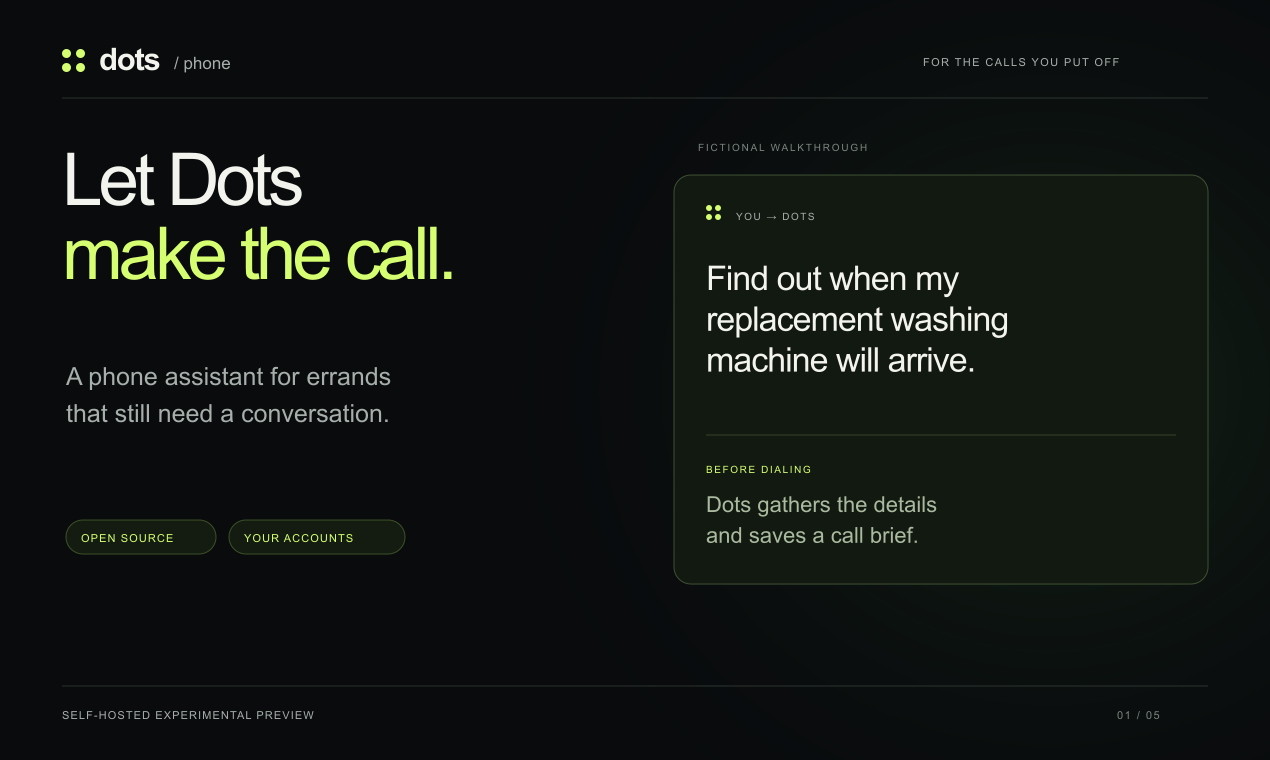
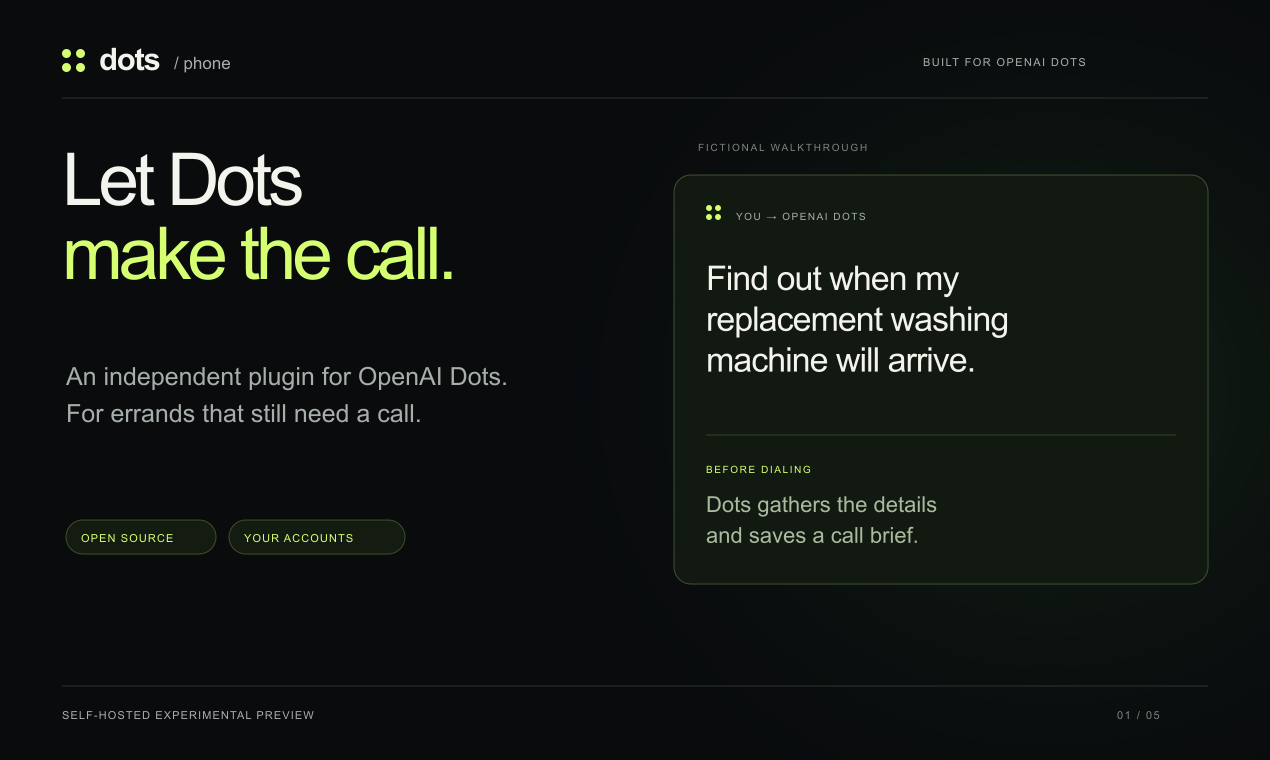
Clarify Dots Phone is a plugin for OpenAI Dots (#6)

Changed region(s): [[0.0614, 0.4842, 0.3992, 0.575], [0.737, 0.0605, 0.8598, 0.0908], [0.6142, 0.2724, 0.6756, 0.3026]]

diff --git a/website/dist/index.html b/website/dist/index.html
@@ -4,22 +4,22 @@
   <meta charset="utf-8">
   <meta name="viewport" content="width=device-width,initial-scale=1">
   <meta name="theme-color" content="#090b0d">
-  <meta name="description" content="An open-source phone assistant for the errands that still need a conversation. Prepare a brief, choose allowed tools, and run Dots on your computer. Experimental preview.">
+  <meta name="description" content="An independent phone-calling plugin for OpenAI Dots. Ask your Dot to handle a call, prepare the brief and bring back the answer. Open source and self-hosted.">
   <link rel="canonical" href="https://phone.gabea.nyc/">
   <meta property="og:type" content="website">
   <meta property="og:site_name" content="Dots Phone">
-  <meta property="og:title" content="Dots Phone — Let Dots make the call.">
-  <meta property="og:description" content="A phone assistant for the errands that still need a conversation. Open source. Self-hosted. Experimental preview.">
+  <meta property="og:title" content="Dots Phone — Phone calls for OpenAI Dots">
+  <meta property="og:description" content="An independent plugin for OpenAI Dots. Your Dot prepares the brief, makes the call and reports back. Open source. Self-hosted.">
   <meta property="og:url" content="https://phone.gabea.nyc/">
-  <meta property="og:image" content="https://phone.gabea.nyc/social-card.png">
+  <meta property="og:image" content="https://phone.gabea.nyc/social-card.png?v=20261022-dots">
   <meta property="og:image:width" content="1200">
   <meta property="og:image:height" content="630">
-  <meta property="og:image:alt" content="Dots Phone. Let Dots make the call. Open-source, self-hosted experimental preview.">
+  <meta property="og:image:alt" content="Dots Phone. A phone-calling plugin for OpenAI Dots. Independent, open-source preview.">
   <meta name="twitter:card" content="summary_large_image">
-  <meta name="twitter:title" content="Dots Phone — Let Dots make the call.">
-  <meta name="twitter:description" content="A phone assistant for the errands that still need a conversation. Open-source, self-hosted experimental preview.">
-  <meta name="twitter:image" content="https://phone.gabea.nyc/social-card.png">
-  <title>Dots Phone — Let Dots make the call.</title>
+  <meta name="twitter:title" content="Dots Phone — Phone calls for OpenAI Dots">
+  <meta name="twitter:description" content="An independent plugin for OpenAI Dots. Your Dot prepares the brief, makes the call and reports back. Open source. Self-hosted.">
+  <meta name="twitter:image" content="https://phone.gabea.nyc/social-card.png?v=20261022-dots">
+  <title>Dots Phone — Phone calls for OpenAI Dots</title>
   <link rel="icon" href="./favicon.svg?v=3683abb69473" type="image/svg+xml">
   <link rel="stylesheet" href="./styles.css?v=a4d6e6dd6e51">
   <link rel="stylesheet" href="./film.css?v=5caa3361b445">
@@ -33,8 +33,8 @@
   </header>
   <main id="main">
     <section class="hero wrap" aria-labelledby="hero-heading">
-      <div class="hero-heading-group"><p class="eyebrow"><span class="status-dot" aria-hidden="true"></span> Dots Phone · Open-source preview</p><h1 id="hero-heading">Let Dots <span>make the call.</span></h1></div>
-      <div class="hero-bottom"><p>Give it the call you’ve been putting off. Dots can talk to customer service for you, using the information and apps you choose to share.</p><a class="primary-link" href="https://github.com/gabeosx/dot-phone-plugin/blob/main/docs/QUICKSTART.md" target="_blank" rel="noopener noreferrer">Get started <span aria-hidden="true">↗</span></a></div>
+      <div class="hero-heading-group"><p class="eyebrow"><span class="status-dot" aria-hidden="true"></span> Built for OpenAI Dots</p><h1 id="hero-heading">Let your Dot <span>make the call.</span></h1></div>
+      <div class="hero-bottom"><p>Dots Phone is an independent plugin for OpenAI Dots. Give your Dot a customer-service call; it prepares the brief, makes the call and reports back.</p><a class="primary-link" href="https://github.com/gabeosx/dot-phone-plugin/blob/main/docs/QUICKSTART.md" target="_blank" rel="noopener noreferrer">Get started <span aria-hidden="true">↗</span></a></div>
     </section>
     <section class="demo-section wrap" id="demo" aria-labelledby="demo-heading">
       <div class="demo-header"><h2 id="demo-heading">Finding out where the washing machine is.</h2><span>Product walkthrough <span aria-hidden="true">/</span> 24 seconds</span></div>
@@ -45,7 +45,7 @@
       <div class="section-heading"><div><p class="eyebrow">Under the hood</p><h2 id="architecture-heading">It knows when<br>to ask for help.</h2></div><p>Realtime handles the conversation. When a question needs more information or reasoning, it can bring in Codex without losing the call.</p></div>
       <div class="architecture" role="group" aria-label="Dots prepares a briefing. Realtime voice speaks through Twilio, and can ask Codex to use permitted read tools. Codex reviews the result before Dots reports back.">
         <div class="arch-main">
-          <div class="arch-node"><span class="node-symbol node-dots" aria-hidden="true">⁙</span><span class="node-type">Before dialing</span><h3>Dots</h3><p>Gathers the details and saves the call briefing.</p></div>
+          <div class="arch-node"><span class="node-symbol node-dots" aria-hidden="true">⁙</span><span class="node-type">Before dialing</span><h3>OpenAI Dots</h3><p>Gathers the details and saves the call briefing.</p></div>
           <span class="arch-arrow" aria-hidden="true">→</span>
           <div class="arch-node arch-voice"><span class="node-symbol node-wave" aria-hidden="true">ııIıı</span><span class="node-type">During the call</span><h3>Realtime</h3><p>Answers from the briefing. Ordinary replies skip the extra reasoning step.</p></div>
           <span class="arch-arrow" aria-hidden="true">↔</span>
@@ -60,10 +60,10 @@
       <div class="ownership-details"><article><h3>Set the limits in the brief.</h3><p>Include what Dots may share and agree to. The document is saved before the call starts.</p></article><article><h3>Connect the apps you want.</h3><p>Codex uses the read tools you allow for that call. Email access is optional and requires authentication.</p></article><article><h3>Keep the service on your machine.</h3><p>Call records are encrypted locally. Model requests go to OpenAI; phone audio travels through Twilio.</p></article></div>
     </section>
     <section class="preview-section wrap" id="preview" aria-labelledby="preview-heading">
-      <div class="section-heading"><div><p class="eyebrow">Before you start</p><h2 id="preview-heading">Built for people<br>who like to tinker.</h2></div><p>This is an experimental preview you run on your computer. Bring your own accounts and start with dialing disabled.</p></div>
+      <div class="section-heading"><div><p class="eyebrow">Before you start</p><h2 id="preview-heading">Built for people<br>who like to tinker.</h2></div><p>Use it with OpenAI Dots and your own provider accounts. The phone service runs on your computer; setup starts with dialing disabled.</p></div>
       <div class="preview-grid">
         <article><span class="node-type">01 / Your computer</span><h3>A local service.</h3><p>Docker Compose, uv, Node and Codex CLI run the service and reasoning worker. The setup guide has a prompt for Codex to help.</p></article>
-        <article><span class="node-type">02 / Your accounts</span><h3>Voice + phone connection.</h3><p>You need OpenAI API access, a Twilio number, HTTPS/WSS tunnels, and eligible ChatGPT custom plugin access. Check registration access before buying services.</p></article>
+        <article><span class="node-type">02 / Your accounts</span><h3>Voice + phone connection.</h3><p>You need OpenAI Dots, OpenAI API access, a Twilio number, HTTPS/WSS tunnels, and eligible ChatGPT custom plugin access. Check registration access before buying services.</p></article>
         <article><span class="node-type">03 / Your limits</span><h3>Start small.</h3><p>Set what Dots may share and agree to. Calls can be incomplete, and unfamiliar phone menus or unclear speech can cause mistakes.</p></article>
       </div>
       <p class="preview-evidence"><a href="https://github.com/gabeosx/dot-phone-plugin/blob/main/docs/VALIDATION.md" target="_blank" rel="noopener noreferrer">Read the test coverage and known limits <span aria-hidden="true">↗</span></a></p>
@@ -71,6 +71,7 @@
     <section class="faq-section wrap" id="questions" aria-labelledby="faq-heading">
       <div><p class="eyebrow">A few details</p><h2 id="faq-heading">Before the<br>first call.</h2></div>
       <div class="faq-list">
+        <details><summary>How does it work with OpenAI Dots?</summary><p>Dots Phone adds phone calls to your Dot. Ask in your Dots conversation; your Dot prepares the brief, coordinates the call and brings the result back to the same conversation. The phone service runs locally, with Codex available for reasoning and permitted lookups.</p></details>
         <details><summary>What does it cost?</summary><p>Dots uses your OpenAI and Twilio accounts. OpenAI charges for API voice usage; Twilio charges for the phone number and calls. Your tunnel service may also charge. Codex reasoning uses your ChatGPT plan’s allowance, which is separate from API billing. Call budgets use estimates rather than live billing.</p></details>
         <details><summary>Does it need access to my email?</summary><p>No. You can supply the facts in the brief. Connected read tools are optional, require your own authentication, and must be allowed for the call.</p></details>
         <details><summary>Where does my data go?</summary><p>The service keeps encrypted call records locally. Model requests go to OpenAI and phone audio travels through Twilio. Connected tools and tunnels have their own data handling. Worker exchange files rely on local file permissions. <a href="https://github.com/gabeosx/dot-phone-plugin/blob/main/docs/PRIVACY.md" target="_blank" rel="noopener noreferrer">Read the data and retention details.</a></p></details>
@@ -78,7 +79,7 @@
         <details><summary>How do I get help?</summary><p><a href="https://github.com/gabeosx/dot-phone-plugin/blob/main/docs/SUPPORT.md" target="_blank" rel="noopener noreferrer">Start with troubleshooting</a> or <a href="https://github.com/gabeosx/dot-phone-plugin/issues" target="_blank" rel="noopener noreferrer">report a reproducible issue</a>. Share your version and a redacted error. Keep credentials, phone numbers, transcripts and private account details out of public issues.</p></details>
       </div>
     </section>
-    <section class="get-started wrap" id="get-started" aria-labelledby="get-started-heading"><div class="cta-copy"><p class="eyebrow">Experimental preview</p><h2 id="get-started-heading">Give Dots<br>your next call.</h2><p>The setup guide includes a prompt you can hand to Codex.</p><div class="cta-actions"><a class="primary-link" href="https://github.com/gabeosx/dot-phone-plugin/blob/main/docs/QUICKSTART.md" target="_blank" rel="noopener noreferrer">Set up Dots Phone <span aria-hidden="true">↗</span></a><a class="text-link" href="https://github.com/gabeosx/dot-phone-plugin" target="_blank" rel="noopener noreferrer">View the code <span aria-hidden="true">↗</span></a></div><p class="setup-requirements">Bring your own provider accounts and run the service locally. Setup starts with dialing disabled. <a href="https://github.com/gabeosx/dot-phone-plugin/blob/main/LICENSE" target="_blank" rel="noopener noreferrer">MIT licensed.</a></p></div><div class="cta-mark" aria-hidden="true"><i></i><i></i><i></i><i></i></div></section>
+    <section class="get-started wrap" id="get-started" aria-labelledby="get-started-heading"><div class="cta-copy"><p class="eyebrow">Experimental preview</p><h2 id="get-started-heading">Give your Dot<br>your next call.</h2><p>The setup guide includes a prompt you can hand to Codex.</p><div class="cta-actions"><a class="primary-link" href="https://github.com/gabeosx/dot-phone-plugin/blob/main/docs/QUICKSTART.md" target="_blank" rel="noopener noreferrer">Set up Dots Phone <span aria-hidden="true">↗</span></a><a class="text-link" href="https://github.com/gabeosx/dot-phone-plugin" target="_blank" rel="noopener noreferrer">View the code <span aria-hidden="true">↗</span></a></div><p class="setup-requirements">Bring your own provider accounts and run the service locally. Setup starts with dialing disabled. <a href="https://github.com/gabeosx/dot-phone-plugin/blob/main/LICENSE" target="_blank" rel="noopener noreferrer">MIT licensed.</a></p></div><div class="cta-mark" aria-hidden="true"><i></i><i></i><i></i><i></i></div></section>
   </main>
   <footer class="site-footer wrap"><a class="wordmark" href="#" aria-label="Back to top"><span class="brand-dots" aria-hidden="true"><i></i><i></i><i></i><i></i></span><span>dots<span class="wordmark-product"> / phone</span></span></a><nav aria-label="Project resources"><a href="https://github.com/gabeosx/dot-phone-plugin/blob/main/docs/SUPPORT.md" target="_blank" rel="noopener noreferrer">Support <span aria-hidden="true">↗</span></a><a href="https://github.com/gabeosx/dot-phone-plugin/blob/main/docs/VALIDATION.md" target="_blank" rel="noopener noreferrer">Test coverage <span aria-hidden="true">↗</span></a><a href="https://github.com/gabeosx/dot-phone-plugin/blob/main/docs/PRIVACY.md" target="_blank" rel="noopener noreferrer">Privacy &amp; data <span aria-hidden="true">↗</span></a></nav></footer>
 </body>

diff --git a/docs/launch/PRODUCT-HUNT-COPY.md b/docs/launch/PRODUCT-HUNT-COPY.md
@@ -12,16 +12,16 @@ self-hosted preview described in the [README](../../README.md).
 Dots Phone
 ```
 
-**Tagline** — 55 characters
+**Tagline** — 38 characters
 
 ```text
-A self-hosted assistant for the phone calls you put off
+A phone-calling plugin for OpenAI Dots
 ```
 
-**Description** — 206 characters; checked by `website/assets/launch/verify.py`
+**Description** — 231 characters; checked by `website/assets/launch/verify.py`
 
 ```text
-Dots makes customer-service calls for errands like delivery updates. It prepares a brief and asks Codex for missing details in apps you allow. Open source. Self-hosted. Uses your OpenAI and Twilio accounts.
+Dots Phone is an independent plugin for OpenAI Dots. Give Dots a phone task: it prepares a brief, makes the call, asks Codex for missing details when needed, and reports the result. Self-hosted with your OpenAI and Twilio accounts.
 ```
 
 **Primary URL**
@@ -70,11 +70,11 @@ gallery images are uploaded to the saved draft; verify their order before schedu
 Owner: review the personal perspective before pasting from the `@gabea` account.
 
 ```text
-Hi Product Hunt — I’m Gabe, the maker of Dots Phone.
+Hi Product Hunt — I’m Gabe, the maker of Dots Phone, an independent phone-calling plugin for OpenAI Dots.
 
 Some errands still end with “you’ll need to call us.” Dots Phone is for those conversations: checking a delivery, following up with customer service, or getting an answer that isn’t available online.
 
-Tell Dots what you need and what it may agree to. It gathers the details, saves a brief, and makes the call. If a question needs missing information, Codex can look it up through the apps you allow. Dots then reports the result and anything that still needs your attention.
+Tell Dots what you need and what it may agree to. Dots gathers the details, saves a brief, and uses Dots Phone to make the call. If a question needs missing information, Codex can look it up through the apps you allow. Dots then reports the result and anything that still needs your attention.
 
 Watch the 60-second demo: https://phone.gabea.nyc/demo/
 
@@ -89,11 +89,18 @@ Dots Phone is an independent, self-hosted project, not affiliated with or endors
 
 **Who is this for?**
 
-Technical early adopters who use Codex and are comfortable running Docker,
-configuring provider accounts, and reviewing a call's scope. This preview is
+Technical early adopters who use OpenAI Dots and Codex and are comfortable running
+Docker, configuring provider accounts, and reviewing a call's scope. This preview is
 self-hosted. You need eligible ChatGPT custom plugin registration access; check
 that before buying provider services. The [quickstart](../QUICKSTART.md) lists
 the prerequisites.
+
+**How does it work with OpenAI Dots?**
+
+Give Dots a phone task in a normal conversation. It gathers the details, prepares a
+brief and uses the Dots Phone plugin to make the call. Codex can look up missing
+information through the apps you allow, and Dots reports the result. You run the
+plugin's service on your own computer and connect it to Dots with your own accounts.
 
 **Can I try it in my browser?**
 
@@ -178,13 +185,13 @@ post URL after launch. These drafts invite feedback; they do not ask for votes.
 **Short social post**
 
 ```text
-I’m launching Dots Phone: a self-hosted phone assistant for calls you put off. It prepares a brief and can ask Codex for missing details during the call. Experimental preview; bring your own provider accounts. I’d love your feedback: PRODUCT_HUNT_LAUNCH_URL
+I’m launching Dots Phone, an independent phone-calling plugin for OpenAI Dots. Give Dots a task: it prepares a brief, makes the call and reports back, with Codex handling missing details when needed. Self-hosted experimental preview. I’d love your feedback: PRODUCT_HUNT_LAUNCH_URL
 ```
 
 **Longer post or community introduction**
 
 ```text
-I’m sharing Dots Phone on Product Hunt today. It’s an open-source, self-hosted experimental phone assistant: prepare a brief, make the call, and bring in Codex for missing information from permitted read tools.
+I’m sharing Dots Phone on Product Hunt today. It’s an independent phone-calling plugin for OpenAI Dots. Give Dots a task: it prepares a brief, makes the call, and brings in Codex for missing information from permitted read tools. Dots reports the result. This is an open-source, self-hosted experimental preview.
 
 Watch a 60-second recording using fictional order details and an owned automated test recipient: https://phone.gabea.nyc/demo/
 

diff --git a/README.md b/README.md
@@ -2,7 +2,8 @@
 
 ### Let Dots make the call.
 
-A phone assistant for the errands that still require a conversation.
+An independent phone-calling plugin for **OpenAI Dots**. Tell Dots what you need;
+it prepares the brief, handles the call and brings the result back.
 
 [![Dots checking a replacement washing machine delivery](website/assets/repo-preview.jpg)](https://phone.gabea.nyc/demo/)
 
@@ -66,7 +67,7 @@ You’ll need:
 | Requirement | What it’s for |
 | --- | --- |
 | Docker Compose, uv, Node and Codex CLI | Run the local service and reasoning worker. uv installs Python 3.13 and the locked dependencies. |
-| OpenAI API project | Realtime voice. API usage is billed separately from ChatGPT. |
+| OpenAI API project | Realtime voice, paid through your API account. |
 | Twilio account and voice-capable number | Connect the call to the telephone network. Carrier charges apply. |
 | ChatGPT access to Codex and custom MCP/plugin registration | Connect Dots and run the signed-in reasoning worker. |
 | HTTPS/WSS tunnels | Let ChatGPT and Twilio reach the service on your computer. |

diff --git a/docs/QUICKSTART.md b/docs/QUICKSTART.md
@@ -1,5 +1,9 @@
 # Set up Dots Phone
 
+Dots Phone is an independent phone-calling plugin for **OpenAI Dots**. Give Dots a
+phone task; it coordinates the brief, call, any permitted Codex lookups and the
+result.
+
 Use the [Codex setup prompt](../README.md#set-up-with-codex) to work through this
 with an assistant, or follow the steps below. The result is a service on your own
 computer connected to your own accounts. Keep the computer and its tunnels running
